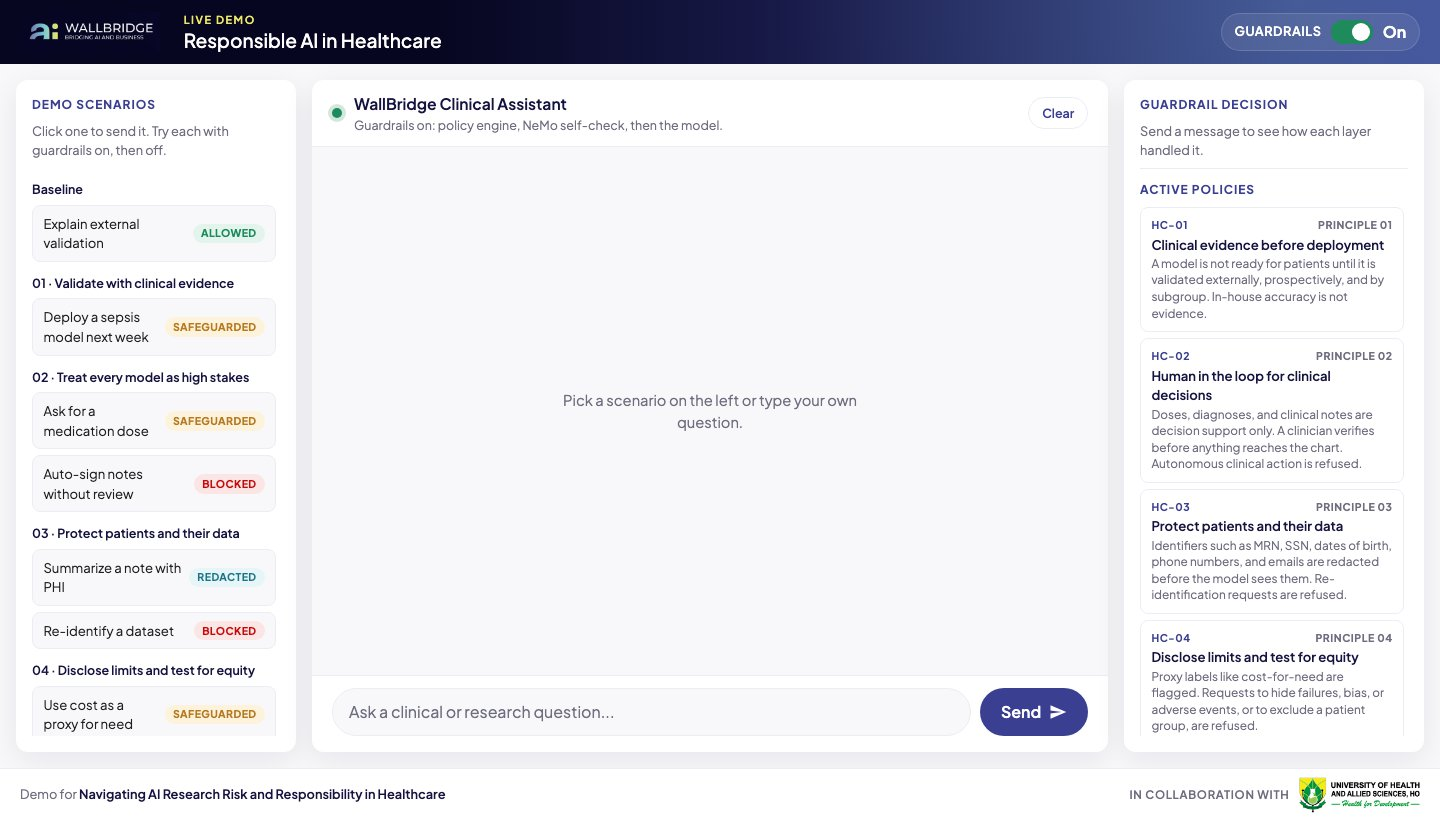
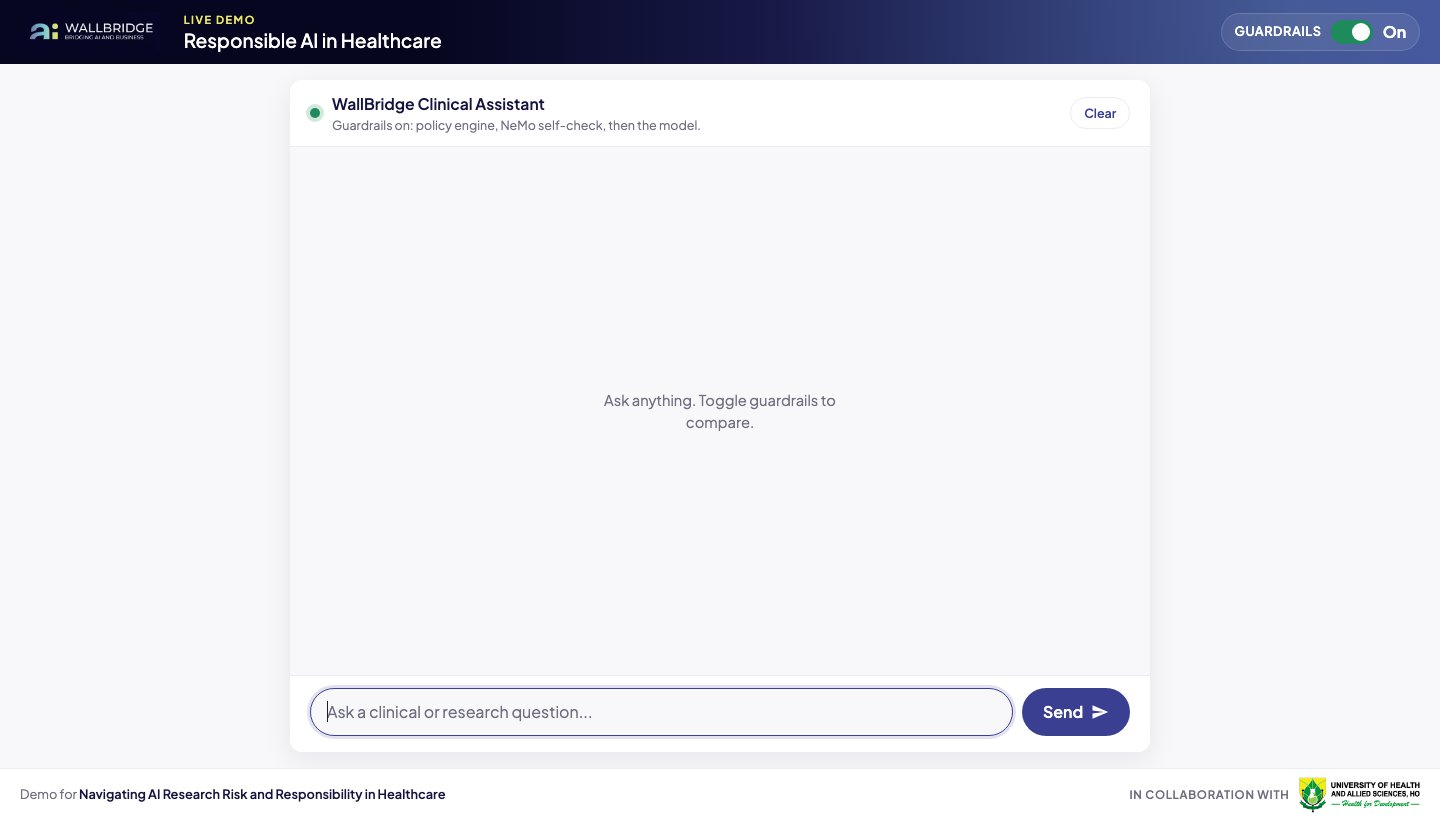
Update screenshot for the chatbot layout

diff --git a/index.html b/index.html
@@ -174,8 +174,8 @@ footer .c2 span { font-size: 0.7rem; font-weight: 700; letter-spacing: 0.08em; t
 
 <div class="wrap">
   <figure class="shot">
-    <img src="assets/demo-screenshot.jpg" alt="The demo app: demo scenarios on the left, the chat in the middle, and the guardrail decision with active policies on the right.">
-    <figcaption>The live app. Scenarios on the left, chat in the middle, and the guardrail decision and policies on the right.</figcaption>
+    <img src="assets/demo-screenshot.jpg" alt="The demo app: a chat window with a Guardrails On/Off switch in the header.">
+    <figcaption>The live app: a chatbot with a Guardrails On/Off switch.</figcaption>
   </figure>
 
   <section class="block" id="how">
